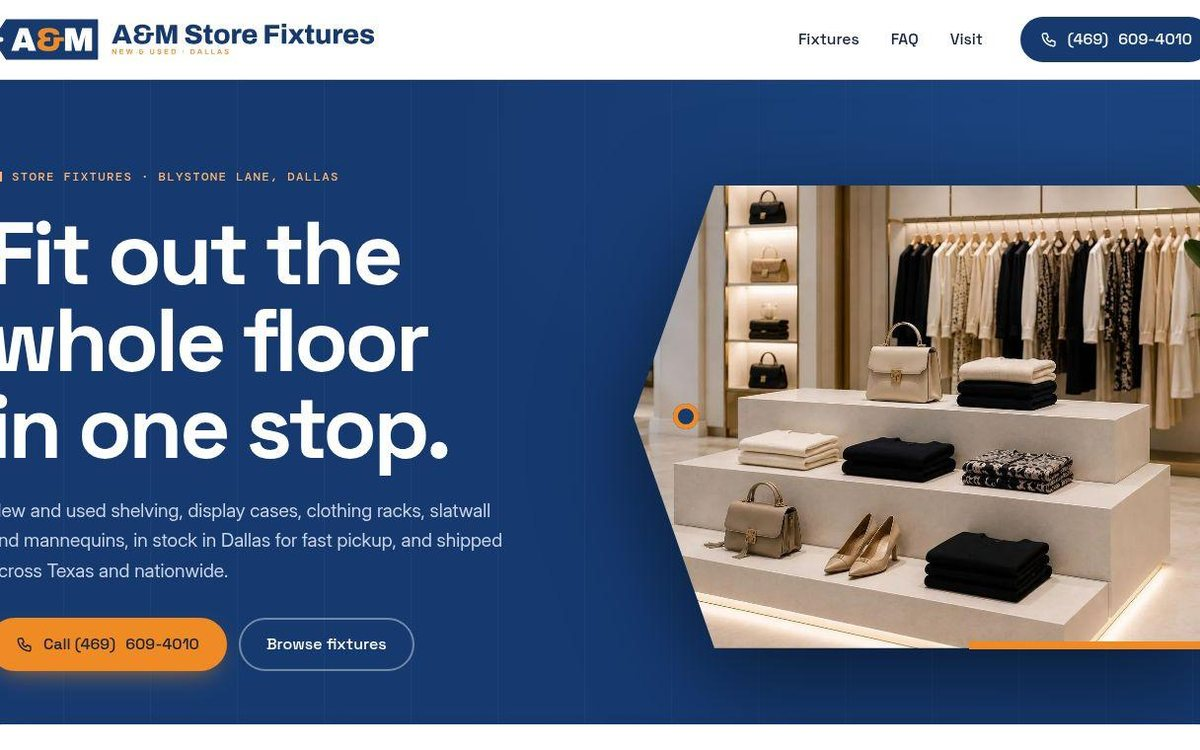
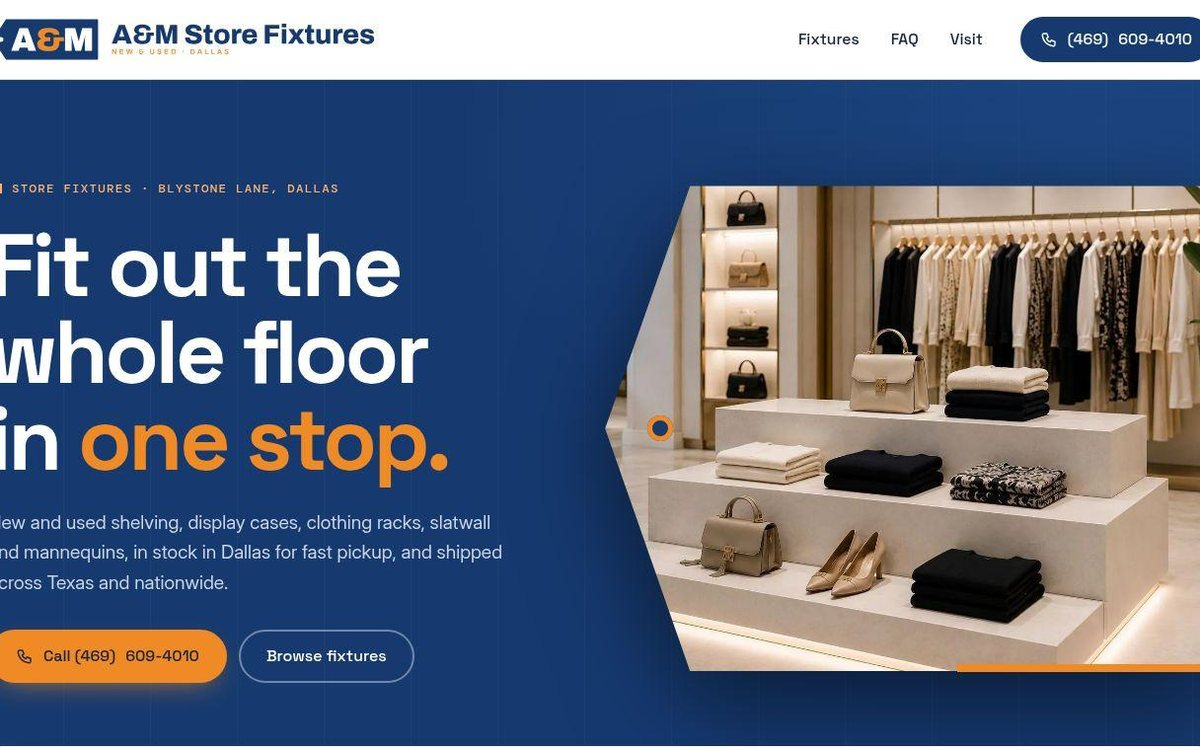
A&M card thumb r3

diff --git a/dallas-2026-10-30/index.html b/dallas-2026-10-30/index.html
@@ -15,7 +15,7 @@ h1{font-family:'Instrument Serif',serif;font-weight:400;font-size:clamp(3rem,7vw
 <div class="lk"><a class="b1" href="wrightway-moving-company/index.html">Open live site →</a><a class="b2" href="wrightway-moving-company/original-logo/index.html">Original-logo version</a><a class="b2" href="wrightway-moving-company/logo/wrightway-moving-company-logo-kit.zip?v=r1">Logo kit</a></div></div></article><article class="c"><a class="sh" href="texas-sumo-game-rental/index.html"><img src="_shots/texas-sumo-game-rental.jpg?v=r1" alt="Texas Sumo Game Rental homepage" loading="lazy"></a>
 <div class="lg"><a href="texas-sumo-game-rental/logo/texas-sumo-game-rental-logo-primary.png?v=r1" target="_blank"><img src="texas-sumo-game-rental/logo/texas-sumo-game-rental-logo-primary.png?v=r1" alt="Texas Sumo Game Rental new logo"></a><a class="dk" href="texas-sumo-game-rental/logo/texas-sumo-game-rental-logo-reversed.png?v=r1" target="_blank"><img src="texas-sumo-game-rental/logo/texas-sumo-game-rental-logo-reversed.png?v=r1" alt="Texas Sumo Game Rental logo reversed"></a></div>
 <div class="bd"><span class="n">02</span><span class="cat">Party &amp; game rentals · Dallas</span><h3>Texas Sumo Game Rental</h3><p>Loud red-and-yellow catalog with the star-belly sumo: a rental-category board up front, then what comes with every booking.</p><div class="pg">Pages: <a href="texas-sumo-game-rental/index.html">index</a><a href="texas-sumo-game-rental/about.html">about</a><a href="texas-sumo-game-rental/contact.html">contact</a><a href="texas-sumo-game-rental/privacy.html">privacy</a><a href="texas-sumo-game-rental/rentals.html">rentals</a></div>
-<div class="lk"><a class="b1" href="texas-sumo-game-rental/index.html">Open live site →</a><a class="b2" href="texas-sumo-game-rental/original-logo/index.html">Original-logo version</a><a class="b2" href="texas-sumo-game-rental/logo/texas-sumo-game-rental-logo-kit.zip?v=r1">Logo kit</a></div></div></article><article class="c"><a class="sh" href="a-and-m-store-fixtures/index.html"><img src="_shots/a-and-m-store-fixtures.jpg?v=r2" alt="A&amp;M Store Fixtures homepage" loading="lazy"></a>
+<div class="lk"><a class="b1" href="texas-sumo-game-rental/index.html">Open live site →</a><a class="b2" href="texas-sumo-game-rental/original-logo/index.html">Original-logo version</a><a class="b2" href="texas-sumo-game-rental/logo/texas-sumo-game-rental-logo-kit.zip?v=r1">Logo kit</a></div></div></article><article class="c"><a class="sh" href="a-and-m-store-fixtures/index.html"><img src="_shots/a-and-m-store-fixtures.jpg?v=r3" alt="A&amp;M Store Fixtures homepage" loading="lazy"></a>
 <div class="lg"><a href="a-and-m-store-fixtures/logo/a-and-m-store-fixtures-logo-primary.png?v=e1" target="_blank"><img src="a-and-m-store-fixtures/logo/a-and-m-store-fixtures-logo-primary.png?v=e1" alt="A&amp;M Store Fixtures new logo"></a><a class="dk" href="a-and-m-store-fixtures/logo/a-and-m-store-fixtures-logo-reversed.png?v=e1" target="_blank"><img src="a-and-m-store-fixtures/logo/a-and-m-store-fixtures-logo-reversed.png?v=e1" alt="A&amp;M Store Fixtures logo reversed"></a></div>
 <div class="bd"><span class="n">03</span><span class="cat">Store fixtures · Dallas</span><h3>A&amp;M Store Fixtures</h3><p>Graphite-and-teal showroom index: the inventory as a category ledger with live counts, new and used side by side.</p><div class="pg">Pages: <a href="a-and-m-store-fixtures/index.html">index</a><a href="a-and-m-store-fixtures/contact.html">contact</a><a href="a-and-m-store-fixtures/faq.html">faq</a><a href="a-and-m-store-fixtures/fixtures.html">fixtures</a><a href="a-and-m-store-fixtures/privacy.html">privacy</a></div>
 <div class="lk"><a class="b1" href="a-and-m-store-fixtures/index.html">Open live site →</a><a class="b2" href="a-and-m-store-fixtures/original-logo/index.html">Original-logo version</a><a class="b2" href="a-and-m-store-fixtures/logo/a-and-m-store-fixtures-logo-kit.zip?v=e1">Logo kit</a></div></div></article><article class="c"><a class="sh" href="prep-at-home-contractors-school-dallas/index.html"><img src="_shots/prep-at-home-contractors-school-dallas.jpg?v=r1" alt="Prep at Home: The Contractors School homepage" loading="lazy"></a>
